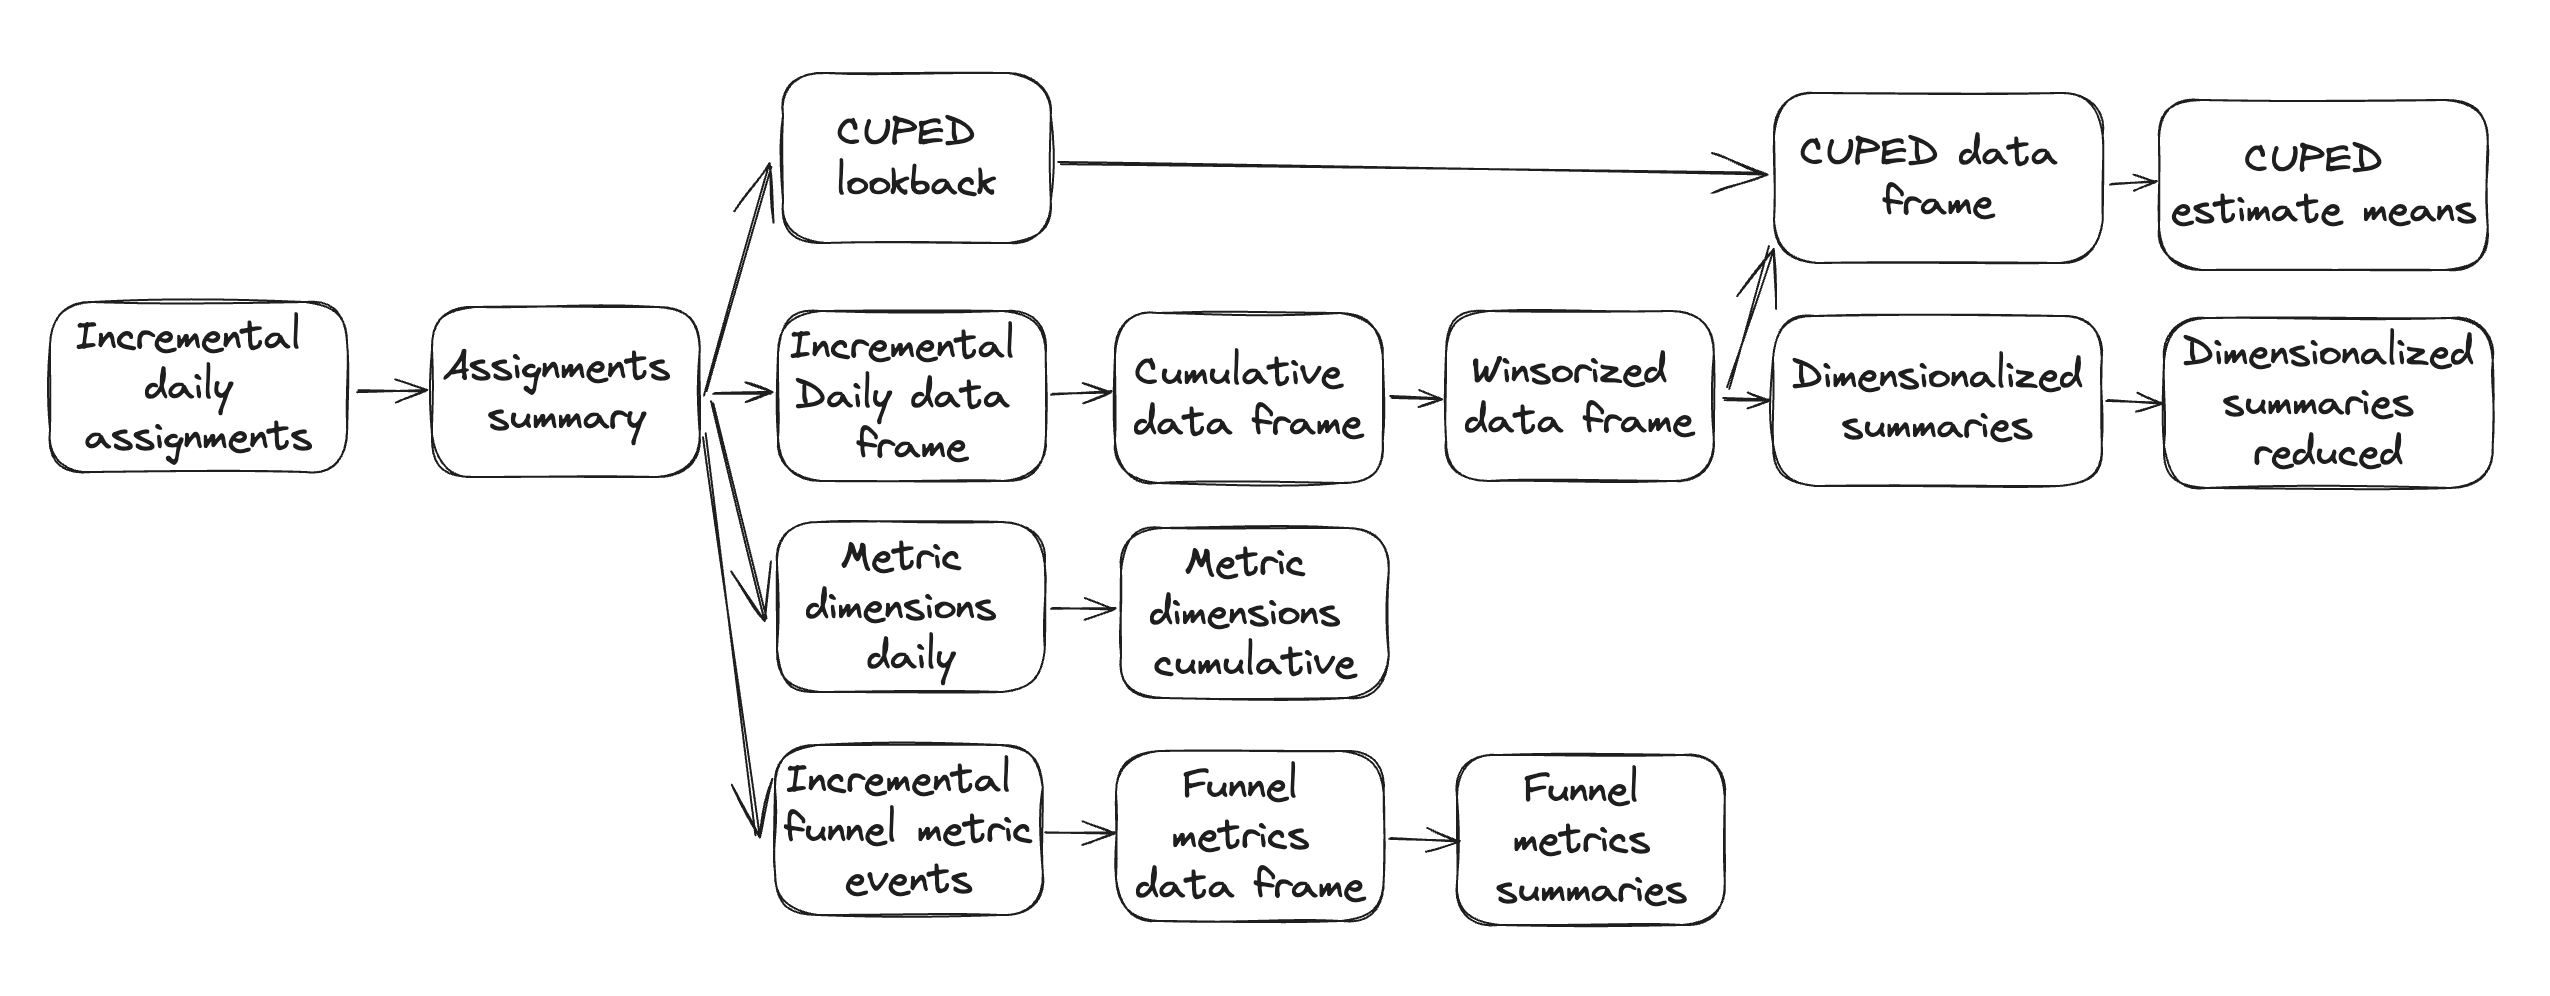
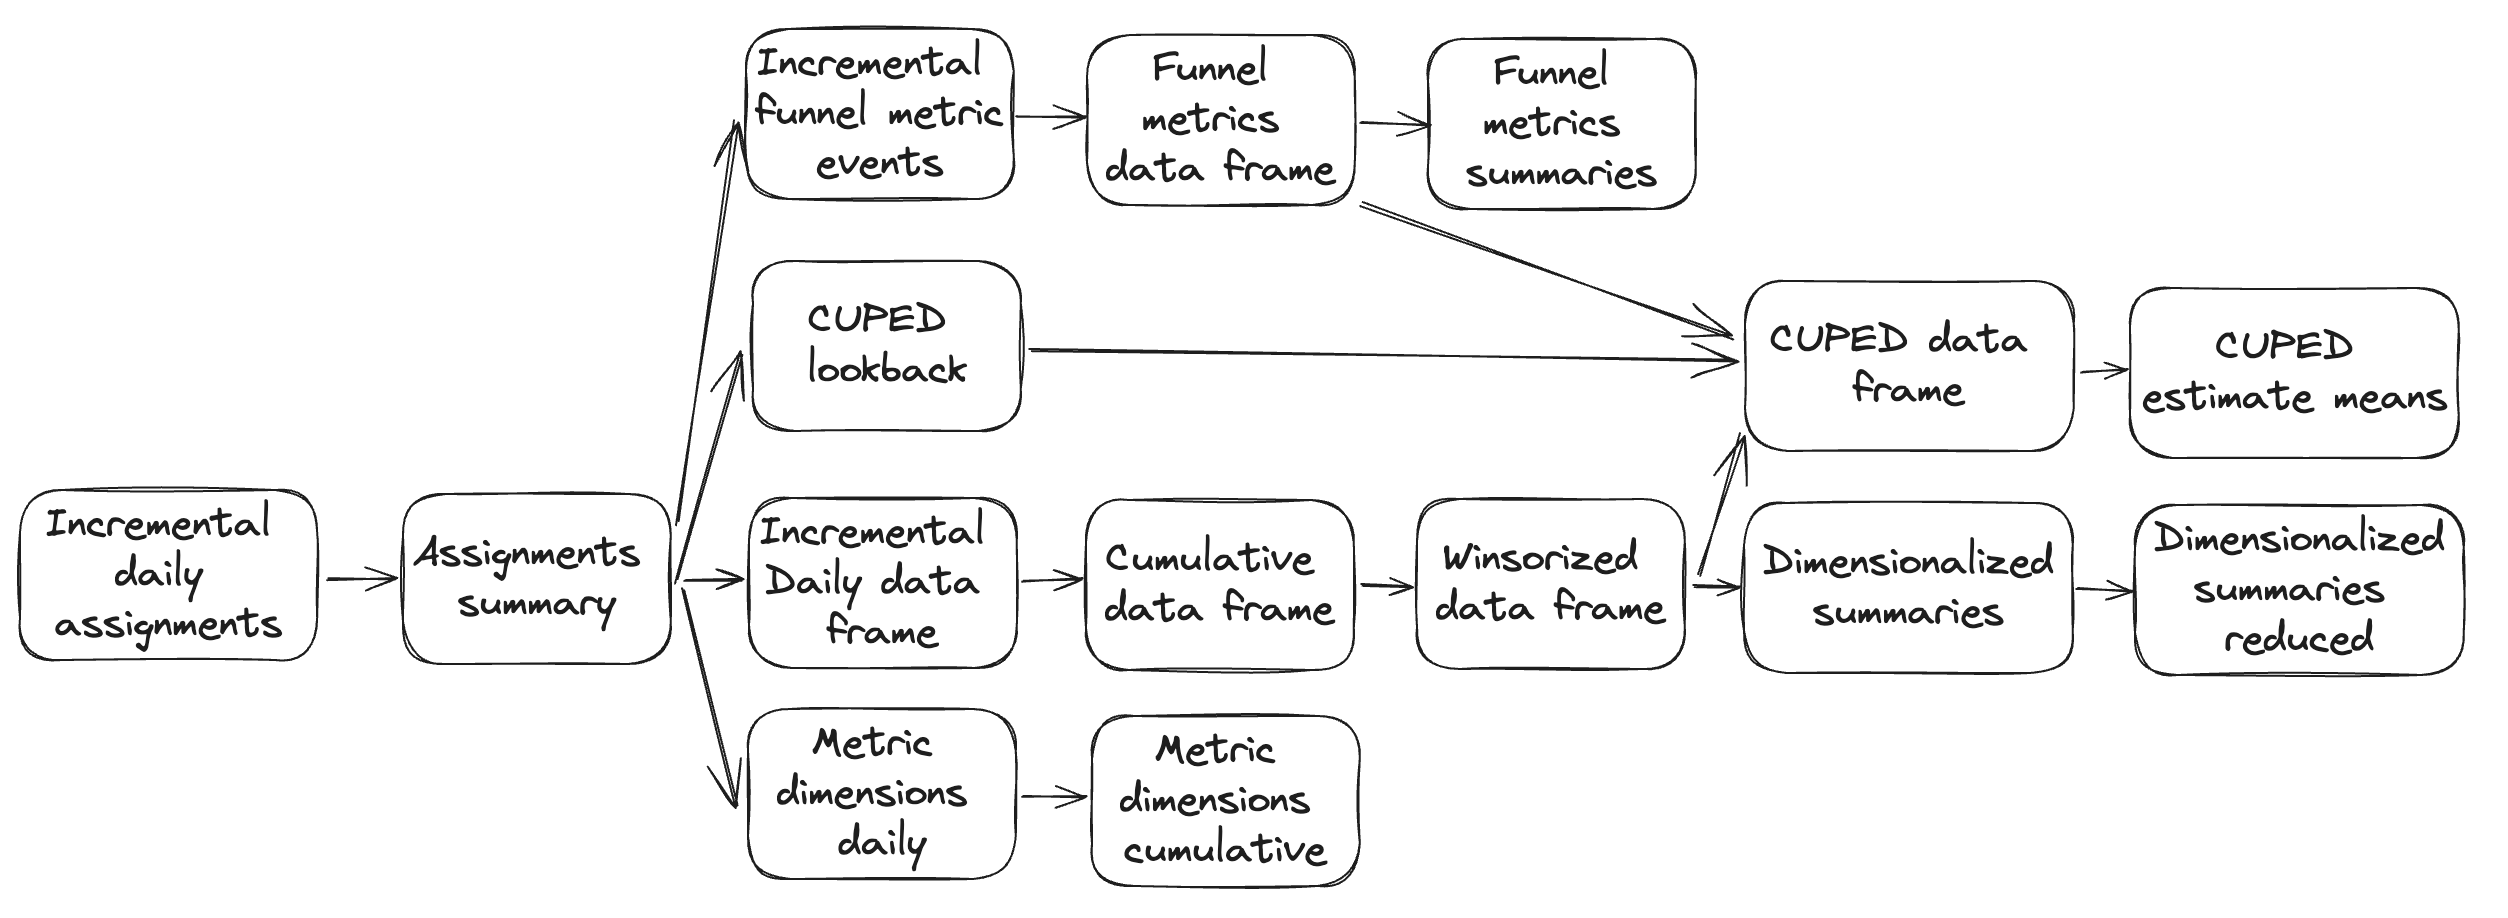
Data pipeline: update data pipeline diagrams to show funnel metrics data frame feeding into CUPED data frame

diff --git a/docs/data-management/data-pipeline.md b/docs/data-management/data-pipeline.md
@@ -91,4 +91,4 @@ If you have any question about our privacy practices, please reach out.
 
 Clustered analysis experiments have a few more steps in the data pipeline to aggregate from the subentity level to the cluster level.  See diagram below with additional steps highlighted.
 
-![Clustered analysis pipeline diagram](/img/experiments/data-pipeline/data_pipeline_clustered_highlighted_v3.png)
+![Clustered analysis pipeline diagram](/img/experiments/data-pipeline/data_pipeline_clustered_highlighted_v4.png)
